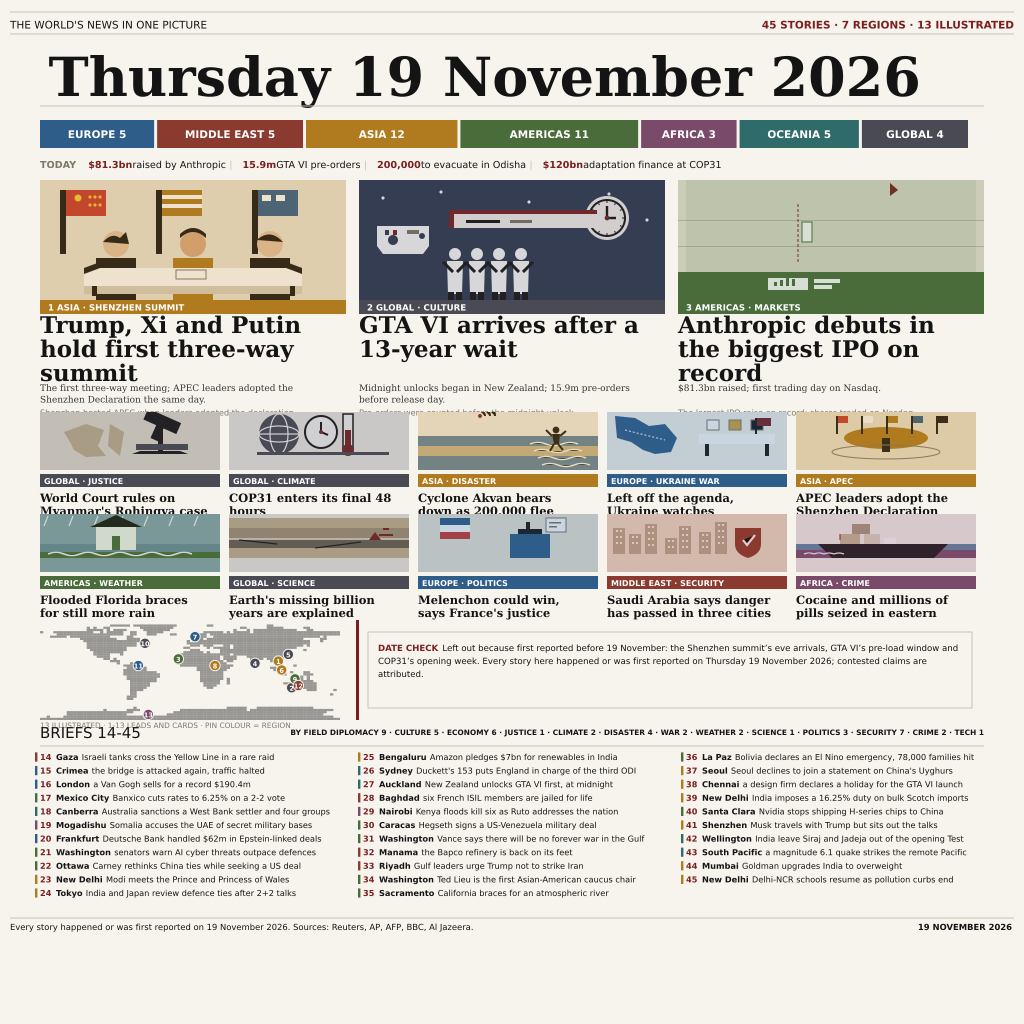
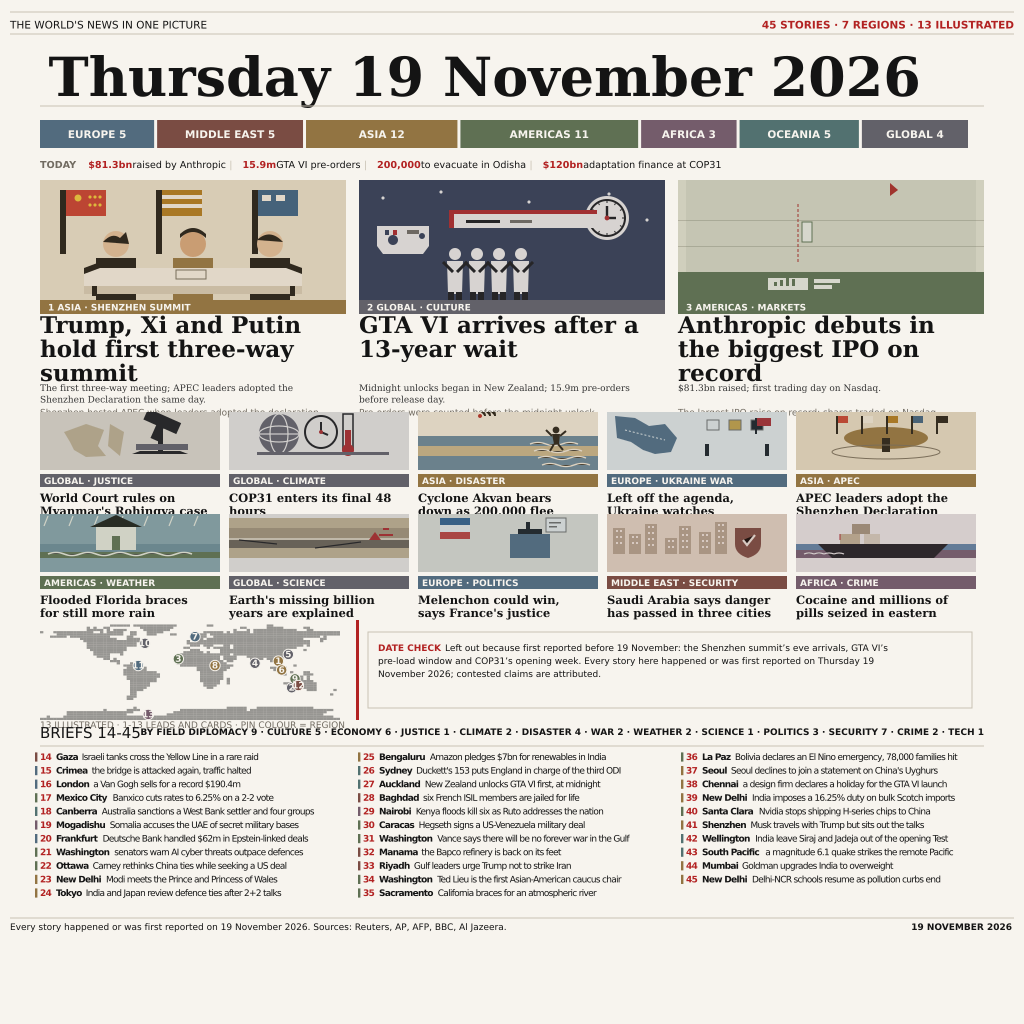
Restyle world page as warm newsprint

diff --git a/gen.py b/gen.py
@@ -16,16 +16,16 @@ from PIL import ImageFont
 W = H = 1024
 PAPER = "#F7F4EE"
 INK = "#141414"
-ACC = "#7a1f1f"
-GREY = "#7d7668"
+ACC = "#B22222"
+GREY = "#716B61"
 DECK = "#333333"
 RULE = "#C9C2B4"
-WHITE = "#ffffff"
+WHITE = "#F7F4EE"
 
 REGION_COL = {
-    "Europe": "#2f5d8a", "Middle East": "#8a3a2f", "Asia": "#b07a1e",
-    "Americas": "#4a6b3a", "Africa": "#7a4a6b", "Oceania": "#2f6b6b",
-    "Global": "#4a4a55",
+    "Europe": "#526B7E", "Middle East": "#7A4C43", "Asia": "#927442",
+    "Americas": "#5F7053", "Africa": "#745C6B", "Oceania": "#527170",
+    "Global": "#626169",
 }
 SERIF = "/usr/share/fonts/truetype/dejavu/DejaVuSerif.ttf"
 SERIF_B = "/usr/share/fonts/truetype/dejavu/DejaVuSerif-Bold.ttf"
@@ -561,7 +561,7 @@ def build():
         svg.raw(f'<g clip-path="url(#lead_clip{i})"><rect x="{x}" y="{y}" width="306" height="120" fill="{rc}" opacity="0.22"/></g>')
         rect_y = y + 120
         svg.rect(x, rect_y, 306, 14, rc)
-        svg.text(x + 8, rect_y + 10.5, f"{i+1}  {region.upper()} \u00b7 {kicker}", SANS_B, 8.6, WHITE,
+        svg.text(x + 8, rect_y + 10.5, f"{i+1}  {region.upper()} \u00b7 {kicker}", SANS_B, 9, WHITE,
                  weight="bold", what=f"lead kicker {i+1}")
         assert tw(f"{i+1}  {region.upper()} \u00b7 {kicker}", SANS_B, 8.6) <= 298, f"lead kicker {i+1}"
         lines = wrap(head, SERIF_B, 23, 300, 3, f"lead head {i+1}")
@@ -569,14 +569,14 @@ def build():
             svg.serif(x, rect_y + 33 + k * 24, ln, 23, box=300, what=f"lead head {i+1}")
         dl = wrap(deck, SERIF, 9.0, 300, 2, f"lead deck {i+1}")
         src = LEAD_SOURCE[i]
-        check(src, SANS, 8.2, 306, f"lead source {i+1}")
+        check(src, SANS, 9, 306, f"lead source {i+1}")
         # Every lead reserves space for a 3-line head and a 2-line deck so the
         # deck and source baselines stay aligned across all three columns.
         deck_top = rect_y + 33 + 2 * 24 + 10
         source_y = deck_top + 11.5 + 13
         for k, ln in enumerate(dl):
             svg.serif(x, deck_top + k * 11.5, ln, 9.0, DECK, weight=False, what=f"lead deck {i+1}", box=300)
-        svg.text(x, source_y, src, SANS, 8.2, GREY, what=f"lead source {i+1}")
+        svg.text(x, source_y, src, SANS, 9, GREY, what=f"lead source {i+1}")
 
     # Cards
     for i, (x, y) in enumerate(cards_geo):
@@ -585,8 +585,8 @@ def build():
         card_scene(svg, x, y, 180, 58, i)
         svg.raw(f'<g clip-path="url(#card_clip{i})"><rect x="{x}" y="{y}" width="180" height="58" fill="{rc}" opacity="0.26"/></g>')
         svg.rect(x, y + 62, 180, 13, rc)
-        check(f"{region.upper()} \u00b7 {kicker}", SANS_B, 8.0, 174, f"card kicker {i+1}")
-        svg.text(x + 4, y + 72, f"{region.upper()} \u00b7 {kicker}", SANS_B, 8.0, WHITE,
+        check(f"{region.upper()} \u00b7 {kicker}", SANS_B, 9, 174, f"card kicker {i+1}")
+        svg.text(x + 4, y + 72, f"{region.upper()} \u00b7 {kicker}", SANS_B, 9, WHITE,
                  weight="bold", what=f"card kicker {i+1}")
         lines = wrap(head, SERIF_B, 12, 176, 2, f"card head {i+4}")
         for k, ln in enumerate(lines):
@@ -606,44 +606,45 @@ def build():
         assert lines[gy][gx] == "#"
         cx, cy = 40 + gx * 10 / 3 + 1.67, my + gy * 100 / 45 + 1.1
         svg.circle(cx, cy, 5.2, REGION_COL[reg], f'stroke="{PAPER}" stroke-width="1"')
-        svg.text(cx, cy + 2.9, str(k), SANS_B, 6.6, WHITE, anchor="middle", weight="bold", what=f"pin {k}")
+        svg.text(cx, cy + 2.9, str(k), SANS_B, 9, WHITE, anchor="middle", weight="bold", what=f"pin {k}")
     svg.raw('</g>')
-    svg.text(40, 738 - 10, "13 ILLUSTRATED \u00b7 1-13 LEADS AND CARDS \u00b7 PIN COLOUR = REGION", SANS, 7.4, GREY, what="map note")
+    svg.text(40, 738 - 10, "13 ILLUSTRATED \u00b7 1-13 LEADS AND CARDS \u00b7 PIN COLOUR = REGION", SANS, 9, GREY, what="map note")
 
     # Date check
     bx, by, bw, bh = 356, 620, 628, 100
     svg.rect(bx, by, 3, bh, ACC)
     svg.rect(bx + 12, by + 12, bw - 24, bh - 24, PAPER, f'stroke="{RULE}" stroke-width="1"')
-    dlines = wrap(DATE_CHECK, SANS, 8.6, 592, 3, "date check")
+    dlines = wrap(DATE_CHECK, SANS, 9, 530, 3, "date check")
     for k, ln in enumerate(dlines):
         if k == 0:
-            svg.text(bx + 22, by + 31, "DATE CHECK", SANS_B, 8.6, ACC, weight="bold", what="date check label")
+            svg.text(bx + 22, by + 31, "DATE CHECK", SANS_B, 9, ACC, weight="bold", what="date check label")
             rest = ln[len("DATE CHECK"):].lstrip()
             gap = 4
-            x0 = bx + 22 + tw("DATE CHECK", SANS_B, 8.6) + gap
-            check(rest, SANS, 8.6, bx + bw - 24 - x0, "date check rest")
-            svg.text(x0, by + 31, rest, SANS, 8.6, INK, what="date check rest")
+            x0 = bx + 22 + tw("DATE CHECK", SANS_B, 9) + gap
+            check(rest, SANS, 9, bx + bw - 24 - x0, "date check rest")
+            svg.text(x0, by + 31, rest, SANS, 9, INK, what="date check rest")
         else:
-            svg.text(bx + 22, by + 31 + k * 13, ln, SANS, 8.6, INK, what="date check")
+            svg.text(bx + 22, by + 31 + k * 13, ln, SANS, 9, INK, what="date check")
 
     # Briefs header
     fieldline = "BY FIELD  " + " \u00b7 ".join(f"{f} {FIELD_COUNT[f]}" for f in FIELDS)
-    check(fieldline, SANS_B, 7.4, 760, "field counts")
+    check(fieldline, SANS_B, 9, tw(fieldline, SANS_B, 9), "field counts")
     svg.text(40, 738, "BRIEFS 14-45", SERIF_B, 15, INK, what="briefs header")
-    svg.text(984, 738 - 3, fieldline, SANS_B, 7.4, INK, anchor="end", weight="bold", what="field counts")
+    svg.raw(f'<text x="984" y="735" font-family="DejaVu Sans" font-size="9" font-weight="bold" fill="{INK}" text-anchor="end" textLength="760" lengthAdjust="spacingAndGlyphs">{esc(fieldline)}</text>')
     svg.hair(746)
 
-    BRIEF_SIZE = 8.2
+    BRIEF_SIZE = 9
+    BRIEF_MEASURE = 8.2
     col_x = [40, 363, 686]
     y0 = 760
     rows = 11
     fit = [0] * len(BRIEFS)
     for i, (region, field, place, text) in enumerate(b[0:4] for b in BRIEFS):
         px0 = 16
-        sw0 = tw(place, SANS_B, BRIEF_SIZE)
+        sw0 = tw(place, SANS_B, BRIEF_MEASURE)
         room0 = 297 - (px0 + sw0 + 3)
-        if tw(text, SANS, BRIEF_SIZE) > room0:
-            lines = wrap(text, SANS, BRIEF_SIZE, 297 - px0, 2, f"brief {i+14} body")
+        if tw(text, SANS, BRIEF_MEASURE) > room0:
+            lines = wrap(text, SANS, BRIEF_MEASURE, 297 - px0, 2, f"brief {i+14} body")
             fit[i] = len(lines) - 1
     extra_rows = sum(fit[(rows - 1) - k] for k in range(rows))
     pitch = 13.6
@@ -656,22 +657,22 @@ def build():
             y += sum(fit[(rows - 1) - k] for k in range(row)) * 7.5
         svg.rect(x - 5, y - 7.6, 2.4, 9.2, REGION_COL[region])
         num = f"{i + 14}"
-        check(num, SANS_B, BRIEF_SIZE, 14, "brief num")
-        svg.text(x, y, num, SANS_B, BRIEF_SIZE, ACC, weight="bold", what="brief num")
+        check(num, SANS_B, BRIEF_MEASURE, 14, "brief num")
+        svg.text(x, y, num, SANS_B, BRIEF_SIZE, ACC, weight="bold", ls=-0.7, what="brief num")
         px = x + 16
-        sw = tw(place, SANS_B, BRIEF_SIZE)
-        check(place + " ", SANS_B, BRIEF_SIZE, 297 - 16, f"brief {num} place")
-        svg.text(px, y, place, SANS_B, BRIEF_SIZE, INK, weight="bold", what=f"brief {num} place")
+        sw = tw(place, SANS_B, BRIEF_MEASURE)
+        check(place + " ", SANS_B, BRIEF_MEASURE, 297 - 16, f"brief {num} place")
+        svg.text(px, y, place, SANS_B, BRIEF_SIZE, INK, weight="bold", ls=-0.7, what=f"brief {num} place")
         tx = px + sw + 3
         room = x + 297 - tx
         if fit[i]:
-            lines = wrap(text, SANS, BRIEF_SIZE, 297 - 16, 2, f"brief {num} body")
+            lines = wrap(text, SANS, BRIEF_MEASURE, 297 - 16, 2, f"brief {num} body")
             for k, ln in enumerate(lines):
-                check(ln, SANS, BRIEF_SIZE, 297 - 16, f"brief {num} body")
-                svg.text(px, y + 7.5 + k * 7.5, ln, SANS, BRIEF_SIZE, INK, what=f"brief {num} body")
+                check(ln, SANS, BRIEF_MEASURE, 297 - 16, f"brief {num} body")
+                svg.text(px, y + 7.5 + k * 7.5, ln, SANS, BRIEF_SIZE, INK, ls=-0.7, what=f"brief {num} body")
         else:
-            check(text, SANS, BRIEF_SIZE, room, f"brief {num} body")
-            svg.text(tx, y, text, SANS, BRIEF_SIZE, INK, what=f"brief {num} body")
+            check(text, SANS, BRIEF_MEASURE, room, f"brief {num} body")
+            svg.text(tx, y, text, SANS, BRIEF_SIZE, INK, ls=-0.7, what=f"brief {num} body")
     last = y0 + (rows - 1) * pitch + extra_rows * 7.5
 
     # No editor note: the briefs end where they did before the box existed,
@@ -680,11 +681,11 @@ def build():
     assert last < hy0 - 4, f"briefs collide with footer rule: {last}"
     svg.hair(hy0, 10, W - 10)
     fy = hy0 + 12
-    fl = wrap(FOOT_L, SANS, 8.4, 700, 2, "footer left")
+    fl = wrap(FOOT_L, SANS, 9, 700, 2, "footer left")
     for k, ln in enumerate(fl):
-        svg.text(10, fy + k * 10, ln, SANS, 8.4, INK, what="footer left")
-    check("19 NOVEMBER 2026", SANS_B, 8.4, 200, "footer right")
-    svg.text(1012, fy, "19 NOVEMBER 2026", SANS_B, 8.4, INK, anchor="end", weight="bold", what="footer right")
+        svg.text(10, fy + k * 10, ln, SANS, 9, INK, what="footer left")
+    check("19 NOVEMBER 2026", SANS_B, 9, 200, "footer right")
+    svg.text(1012, fy, "19 NOVEMBER 2026", SANS_B, 9, INK, anchor="end", weight="bold", what="footer right")
     assert fy + (len(fl) - 1) * 10 + 2 <= H, "footer clipped"
 
     svg.raw('</svg>')
